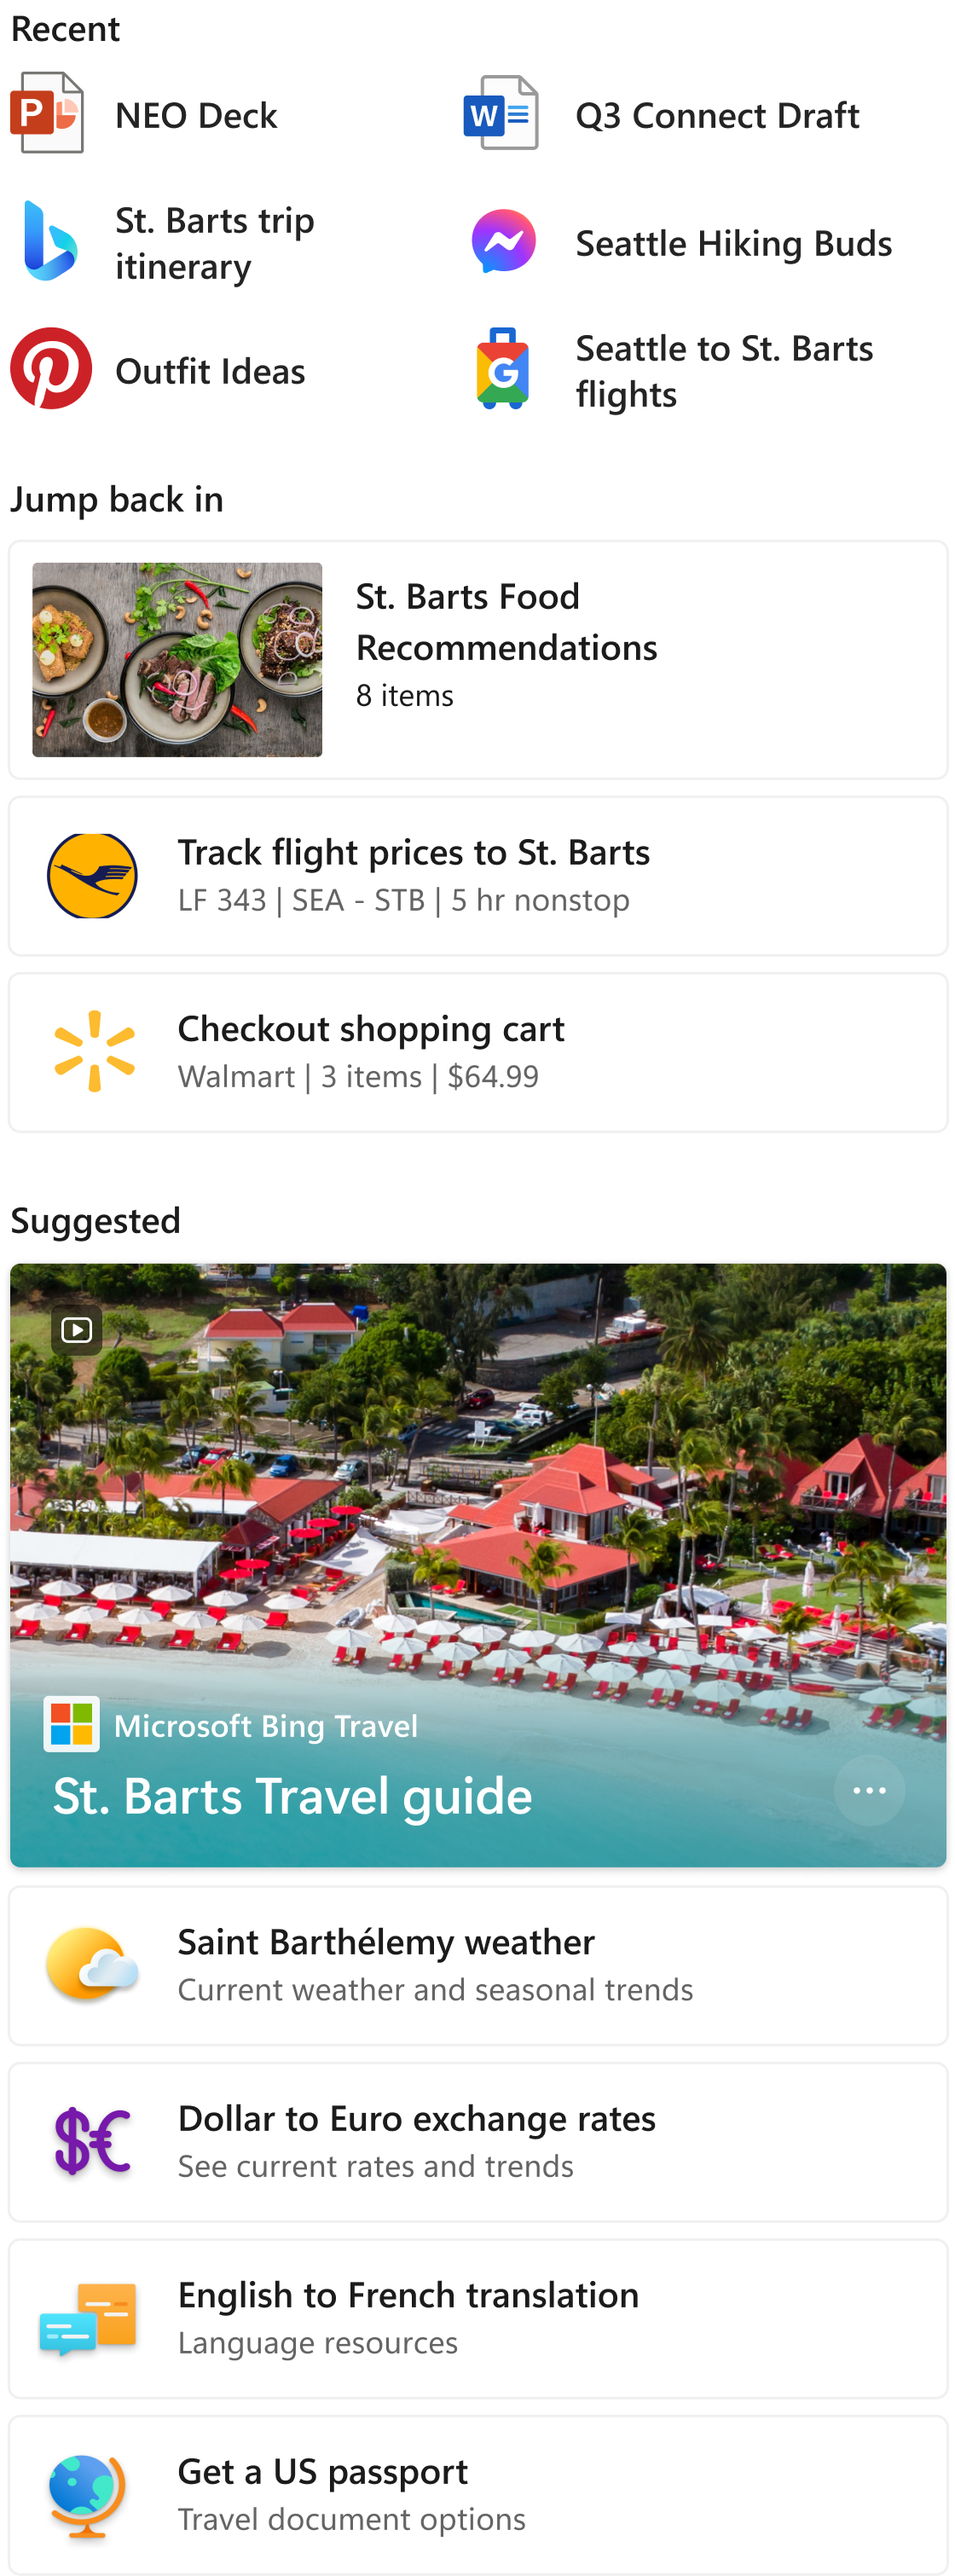
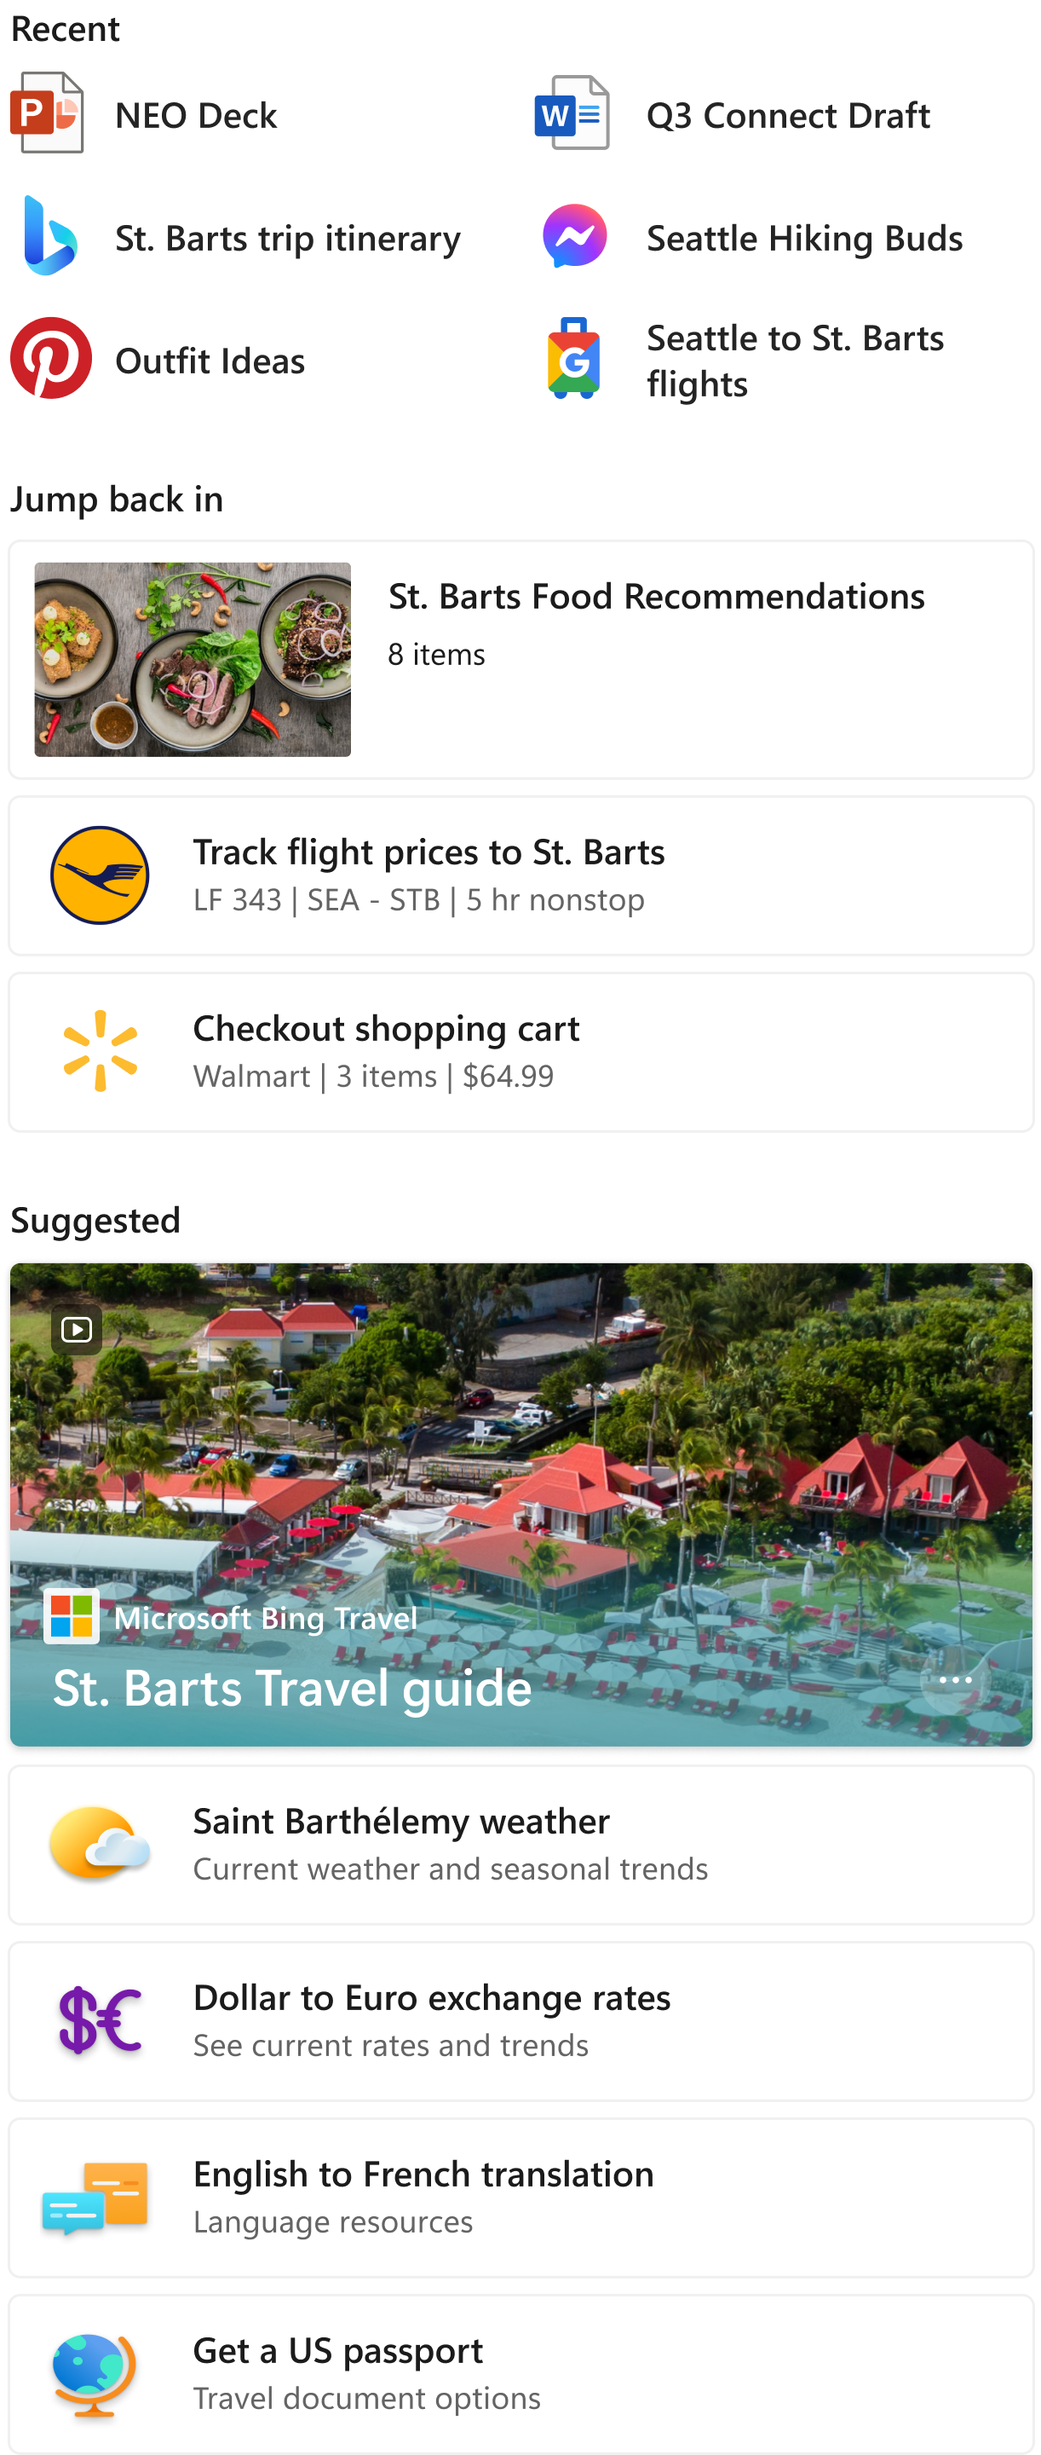
new image

diff --git a/sample.html b/sample.html
@@ -30,7 +30,7 @@
     </head>
 <body class="container">
   <div>
-    <img src="preview.png" alt="preview" style="width:91.5%;">
+    <img src="preview.png" alt="preview" style="width:100%;">
   </div>
 </body>
 </html>
